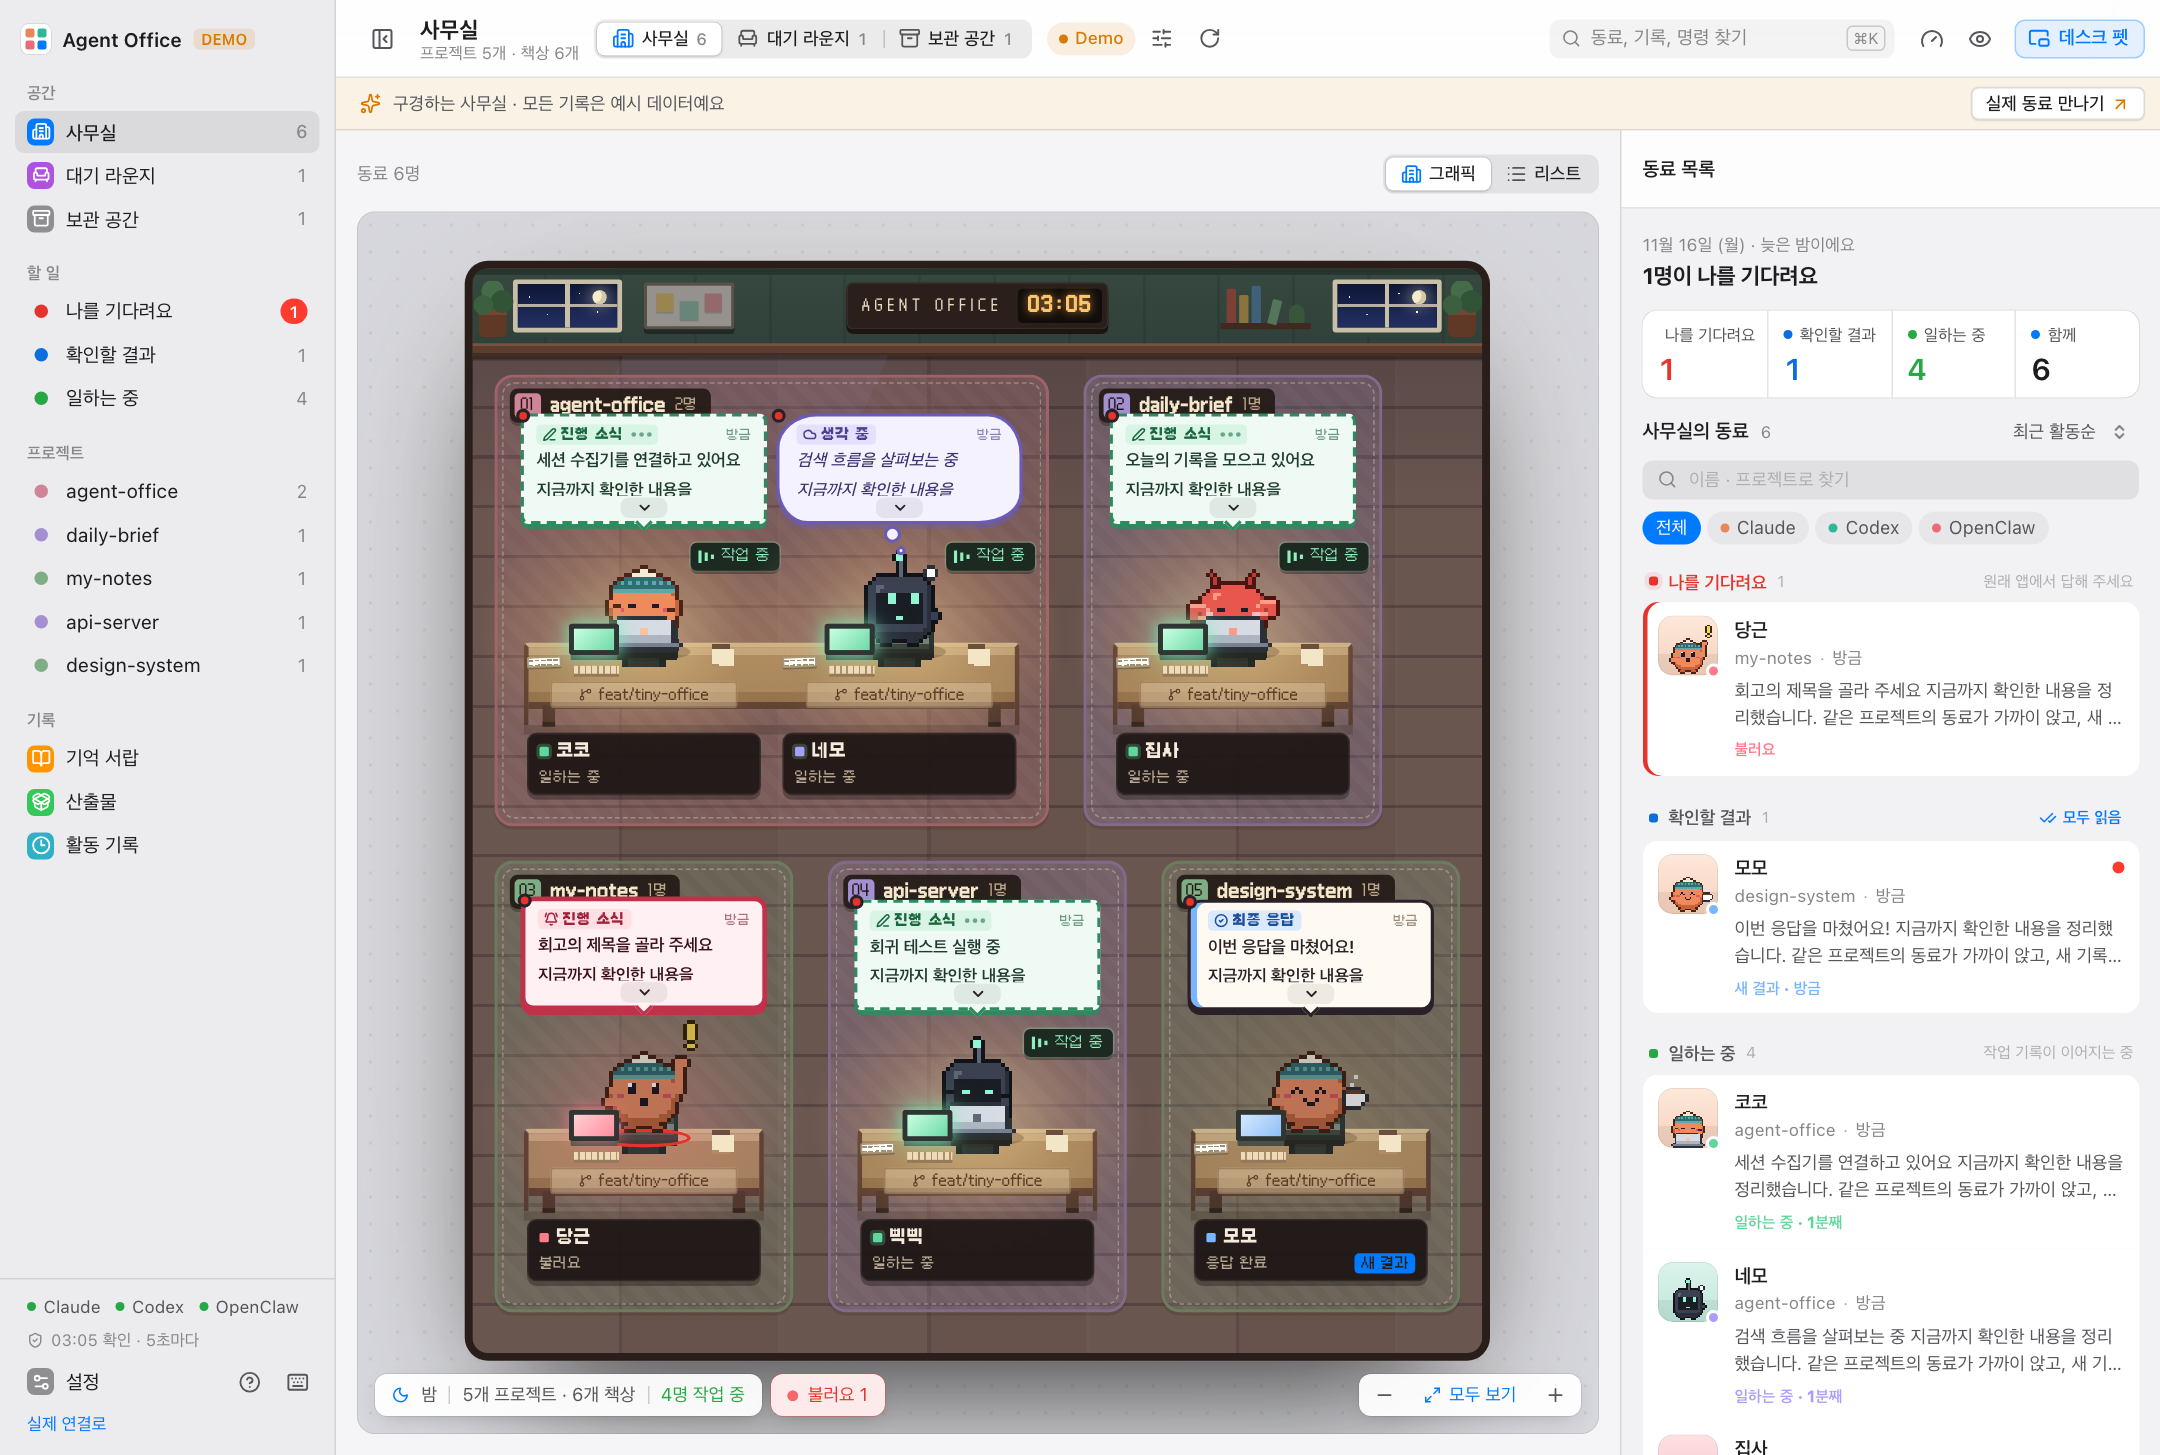
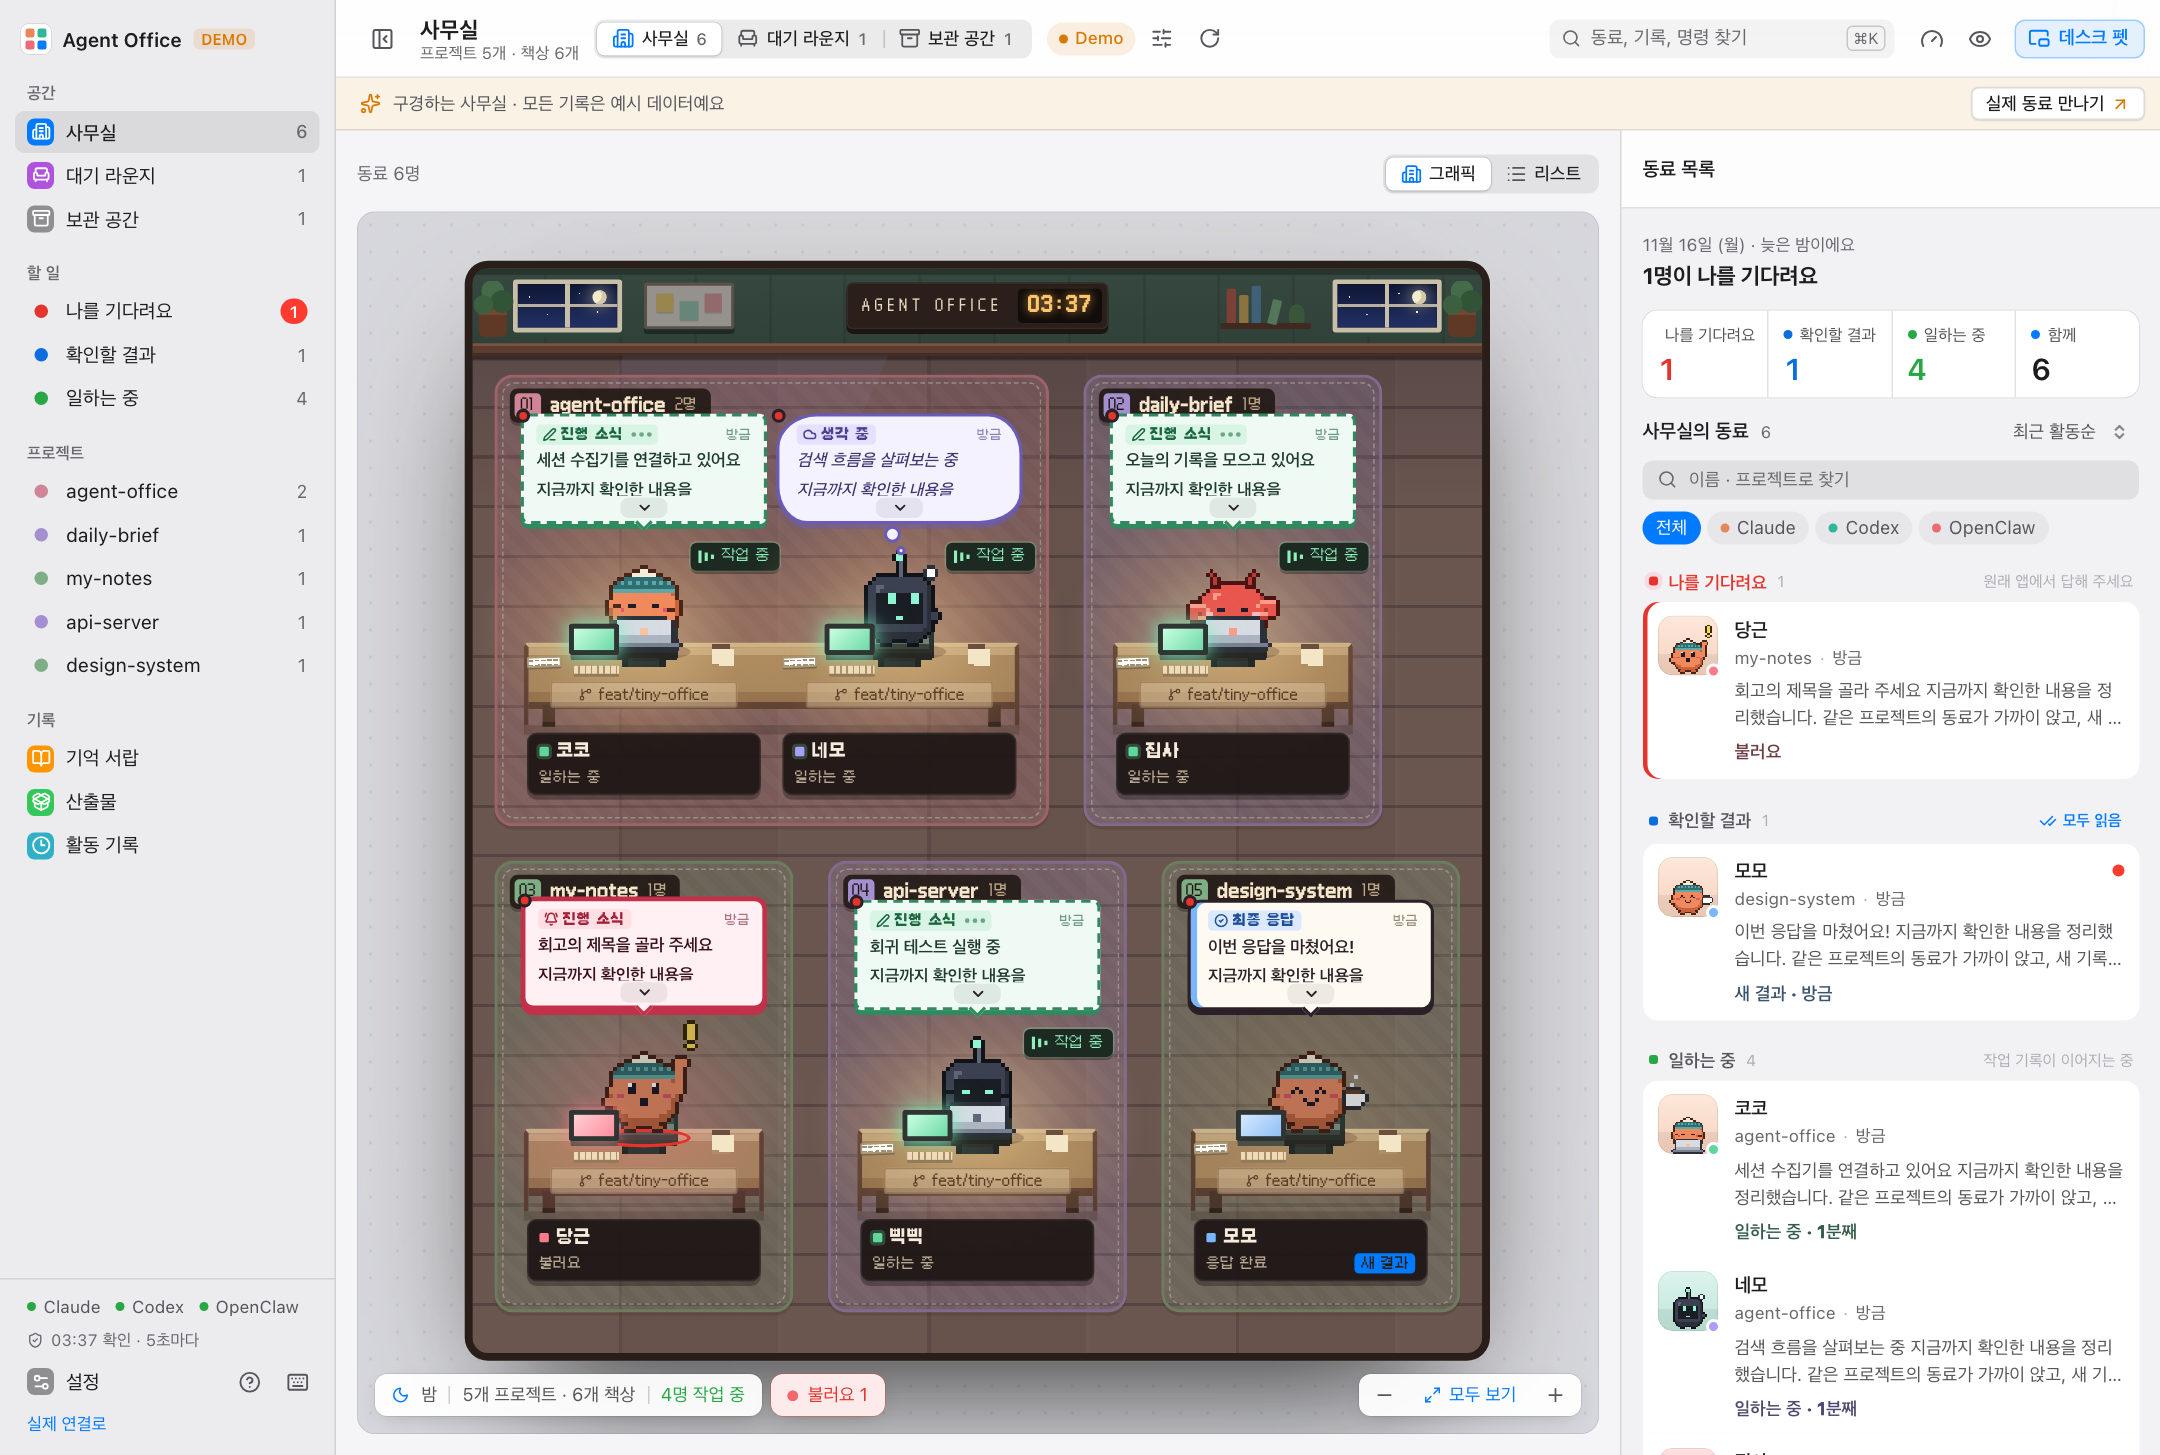
docs: 세 차례 검수와 안정성 결과 및 최신 화면 홍보 자료 정리

diff --git a/docs/development/PRODUCTION-REVIEW-2026-11.md b/docs/development/PRODUCTION-REVIEW-2026-11.md
@@ -49,15 +49,15 @@
 
 ## 3회차 · 운영·회귀와 독립 리뷰
 
-개선 후 최종 플랫폼 CI 검증 중.
+기능·디자인 개선과 로컬 실행 검증 완료. 최종 커밋의 플랫폼 결과는 [PR373 Checks](https://github.com/kys42/agent-office/pull/373/checks)를 정본으로 확인한다.
 
 - 발견/개선: 작은 모바일 보조 텍스트와 안내의 낮은 대비를 확인했다. 보조 글자를 12px 이상으로 맞추고, 명암이 충분한 기존 토큰·키보드 포커스를 사용한다. 상태는 읽을 수 있는 글자와 구분되는 색 점을 함께 쓴다. 390px 영어 라이트/다크에서 주요 설명·시간·전송 안내·placeholder·로그인 버튼의 실제 계산 대비가 4.5:1 이상인 것을 확인했다.
 - 발견/개선: 서명 workflow에 일반 CI의 dependency 감사 게이트가 없었다. 서명 전에 `npm audit --audit-level=high`를 동일하게 실행한다.
 - CI Linux: 외부 printf를 인자 관측기로 쓰던 테스트는 플랫폼별 처리가 달랐다. 실제 `/bin/sh` 해석 후 Node argv로 따옴표·개행·명령 치환 문자열 보존을 검증한다. 테스트를 삭제하거나 인자 보존 요구를 낮추지 않았다.
-- CI Windows: CDP hover가 OS 커서를 옮기지 않아 native resize 후 실제 커서가 다른 곳에서 다시 감지되는 증거를 확보했다. 검수에서 DIP→물리 좌표로 OS 커서를 맞춘 뒤 renderer 이벤트도 전달한다. 최종 Windows 실행으로 검증하며, 단순 재시도로 성공을 주장하지 않는다.
+- CI Windows: CDP hover가 OS 커서를 옮기지 않아 native resize 후 실제 커서가 다른 곳에서 다시 감지되는 증거를 확보했다. 검수에서 DIP→물리 좌표로 OS 커서를 맞춘 뒤 renderer 이벤트도 전달한다. `b1791d3`의 Windows packaged native CI가 통과했다. 테스트 삭제나 단순 재시도로 성공을 주장하지 않는다.
 - 검증: 전체 단위 1,064개 통과·1개 skip(추가 공증 실패 테스트는 별도 5개 모두 통과), 전체 UI 578개 통과 후 모바일 추가 수정 13개 통과. build·typecheck·format·MCP·격리 Electron 데스크톱/모바일 검수 통과, npm audit 0개. 실제 3개 공급자 합성 세션·IPC 격리·설정 저장·펫/책상 줄/바닥·중복 전송 방지·권한 회수 검수 포함. macOS quiet 실행은 OS 포커스를 검증하지 않는다.
 - 공증 운영 발견: 2026-11-16 로컬 Developer ID 신원은 있으나 Apple history API가 계약 미동의·만료 403을 반환했다. 재동의 여부를 사용자에게 확인 요청했으며 공증 업로드를 하지 않았다. preflight는 30초 상한을 두고, 원래 execFile 예외의 인증 인자/개인 파일 경로를 다시 노출하지 않는 해결 안내로 변경했다. 계약·401·timeout·일반 실패 회귀를 추가했다.
-- 정식 배포는 계약 확인 후 같은 팀 프로필로 preflight → clean commit signed DMG → 설치 검수 순서로 진행해야 한다. 현재 PR 수정이 설치된 서명 앱에 적용됐다고 표시하지 않는다.
+- **사용자 결정(2026-11-16): 공증은 보류하고 기능·디자인을 우선 완성한다.** 공증·설치본 교체는 이번 완료 조건에서 제외한다. 이후 정식 배포는 계약 확인 후 같은 팀 프로필로 preflight → clean commit signed DMG → 설치 검수 순서로 진행한다. 현재 PR 수정이 설치된 서명 앱에 적용됐다고 표시하지 않는다.
 
 ### 핵심 흐름의 현재 검토 범위
 
@@ -68,11 +68,21 @@
 | 대화·전송·사용자 초안·북마크 | card, conversation-scroll, reader, composer, terminal-preview 회귀; mobile auth/dispatch·권한회수 native |
 | 접근성·언어·좁은 창 | i18n, text-settings, UX, dock-view 회귀; 변경 모바일 390px 라이트/다크 대비 및 화면 검사 |
 | 외부/원격 경계 | federation·ingestion·MCP 단위/통합 회귀; 인증·Host·Origin·가림·최종 전송 재검증. 실제 다른 물리 기기 승인은 별도 |
-| 서명·출시 | 서명 정책/receipt 검증·CI 게이트 및 Apple 실제 preflight. 현재 Apple 계약 403은 미해결 출시 조건 |
-| 대량 기록 | 400개 기록 창·4,000개 탐색·50,000건 collector benchmark. 720회/150세션 합성 반복 검증 결과 대기 |
+| 서명·출시 | 서명 정책/receipt 검증·CI 게이트 및 Apple 실제 preflight. Apple 계약 403은 사용자 결정에 따라 이번 범위에서 보류 |
+| 대량 기록 | 400개 기록 창·4,000개 탐색·50,000건 collector benchmark. 720회/150세션 합성 반복 검증 통과(아래 측정) |
+
+### 사무실·업무 카드 최종 디자인 검수
+
+사무실 명단의 상태 텍스트가 밝은 캐릭터 색을 그대로 써 읽기 어려웠다. 캐릭터·상태 점의 색은 유지하고 상태 글자만 테마의 본문색과 혼합한다. 보조 텍스트/입력 힌트의 명암, 프로젝트명·상태·대화 시간의 크기를 보강했다. 새 라이트/다크 검증에서 실제 명단 상태·프로젝트·대화 시간 대비 4.5:1 이상을 확인했다. 변경 후 관련 UI 19개 통과, 과거 페이지 축출 때 기존 메시지의 화면 위치가 2px 안에서 유지되는 것도 확인했다. 사무실·펫의 픽셀 에셋과 프로젝트 배치 의미를 바꾸지 않는다.
+
+### 대량 기록 실행 결과
+
+`node --expose-gc --import tsx scripts/soak.ts 720 150` — 격리 합성 폴더만 사용. 150개 긴 세션에 매 회 5개씩 요청/응답을 추가하고 작업 그룹을 바꾸는 720회 수집을 수행했다. 예열 120회 이후 post-GC heap **84.9→87.9MiB (+3.6%)**, parser/압축 cache/window 상한 준수, 종료 `soak ok`. 5초 주기의 한 시간 분량을 가속 재생한 것으로 실제 한 시간 방치·Electron/GPU 전체 메모리 시험이 아니다. RSS와 heap은 다르며 고정 메모리를 약속하지 않는다.
+
+`node --expose-gc --import tsx scripts/memory-benchmark.ts 50000` — 50,000건/100세션 합성 데이터. 조회 전/후 post-GC heap **17.50→23.27MiB**, RSS **78.56→93.72MiB**. snapshot에는 1,047개, detail에는 39개 소식만 실렸고 전체 건수 50,000·미확인 26,667 집계는 유지됐다. 다른 검수와 병행한 관측이므로 소요 시간을 전후 성능 개선 배수나 p95로 쓰지 않는다.
 
 새로운 특정 성능 배수·메모리 고정값·모든 기기 지원을 보장하지 않는다. `.local/`의 로그/합성 화면은 개인 검수 산출물이며, 이 문서와 PR에 결과·한계를 요약한다.
 
 ## 홍보 산출물
 
-초안과 이미지 제작: [캠페인 폴더](../marketing/2026-11/README.md). SNS 4종, 블로그 글, 브랜드 일러스트 2장, 실제 합성 UI 캡처 4장, HTML/PNG 포스터 4종. 두 주요 SNS 문안 lint 오류/경고 0개. 최종 결과 검토 전이며 게시하지 않았다. 계정·공개 다운로드 URL은 지정하지 않았다.
+초안과 이미지 제작: [캠페인 폴더](../marketing/2026-11/README.md). SNS 4종, 블로그 글, 브랜드 일러스트 2장, 실제 합성 UI 캡처 4장, HTML/PNG 포스터 4종. 두 주요 SNS 문안 lint 오류/경고 0개. 이미지/문안·합성 캡처·출처/표현 근거를 검토했고 게시하지 않았다. 계정·공개 다운로드 URL은 지정하지 않았다.

diff --git a/update_note.md b/update_note.md
@@ -1,6 +1,6 @@
 ## 2026-11-16 · 프로덕션 재검토 3회차
 
-모바일 읽기 명암·글자 크기·상태 표시·포커스 보완, 정식 서명 CI에 고위험 취약점 차단, 플랫폼 간 인자/네이티브 포인터 검수 보강. 공증 preflight의 계약·인증·timeout 실패 안내와 인증 인자 비노출을 검증했다. 전체 UI 578개 통과 후 추가 모바일 13개·서명 정책 5개 통과. Windows 최종 CI 및 150세션 반복 안정성 검증은 진행 중이다. Apple 공증 API의 필수 계약 403은 사용자 확인 대기이며 정식 배포 완료가 아니다.
+모바일 읽기 명암·글자 크기·상태 표시·포커스 보완, 정식 서명 CI에 고위험 취약점 차단, 플랫폼 간 인자/네이티브 포인터 검수 보강. 공증 preflight의 계약·인증·timeout 실패 안내와 인증 인자 비노출을 검증했다. 전체 UI 578개 통과 후 추가 모바일 13개·서명 정책 5개 통과. Windows packaged CI 통과, 720회/150세션 합성 반복 검증 통과(post-GC heap 84.9→87.9MiB, +3.6%). 사무실 명단·카드 시간의 대비/크기도 보강해 관련 UI 19개 통과. Apple 계약 403에 대해 사용자가 공증은 보류하고 기능·디자인을 우선하라고 결정했다. 정식 배포 완료를 뜻하지 않는다. 최종 커밋 CI는 PR373 Checks를 확인한다.
 
 ## 2026-11-16 · 프로덕션 재검토 2회차
 

diff --git a/docs/development/DESIGN-SYSTEM.md b/docs/development/DESIGN-SYSTEM.md
@@ -34,6 +34,8 @@ Windows는 [Windows 지원 가이드](WINDOWS.md)의 독립 제목줄과 native 
 
 ## 변경할 때
 
+명단의 프로젝트명·작업 상태, 대화 시간과 입력 힌트도 사용자가 읽는 정보다. 장식용 옅은 색(`--text-4`) 대신 테마별 `--text-3` 이상을 사용하고, 밝은 캐릭터 색을 작은 상태 글자에 그대로 쓰지 않는다. 명단은 색 점을 유지하면서 글자를 본문색과 혼합한다. 변경 시 `tests/ui/production-health.spec.ts`의 라이트/다크 실제 대비 검사와 `tests/ui/mobile.spec.ts`의 390px 영어/대비 검사를 실행한다. 이 검사는 지정한 필수 설명의 4.5:1 대비를 확인하며 앱 전체 WCAG 인증을 뜻하지 않는다.
+
 - 새 크롬 색은 리터럴 대신 토큰을 쓰고 라이트/다크 둘 다 확인한다.
 - 툴바에 버튼을 늘리면 1050px 창 + 오른쪽 패널 열림에서 겹치지 않는지 본다.
 - 검증: `tests/ui/native.spec.ts`(사이드바 공간·할 일·프로젝트, 툴바 슬롯, 시스템 모양), 기존 UI 테스트, `scripts/desktop-smoke.mjs`.
